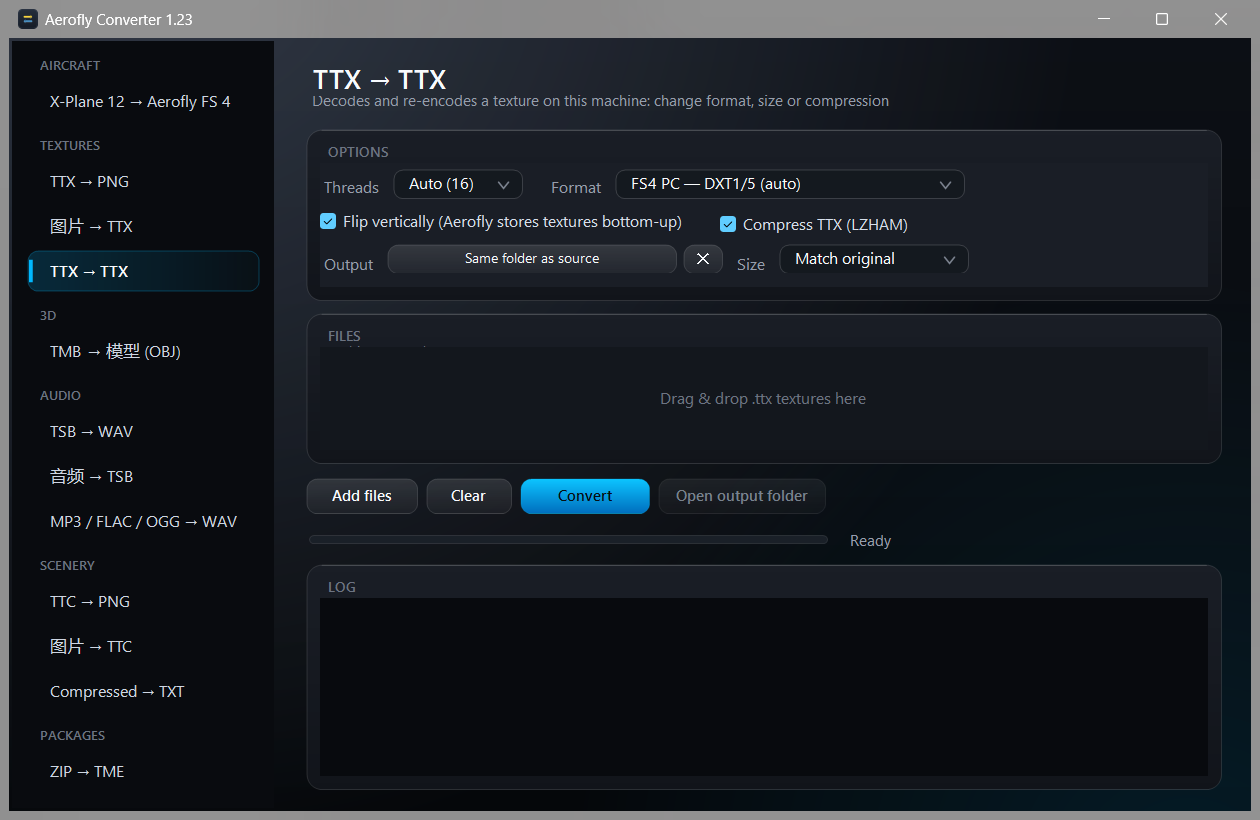
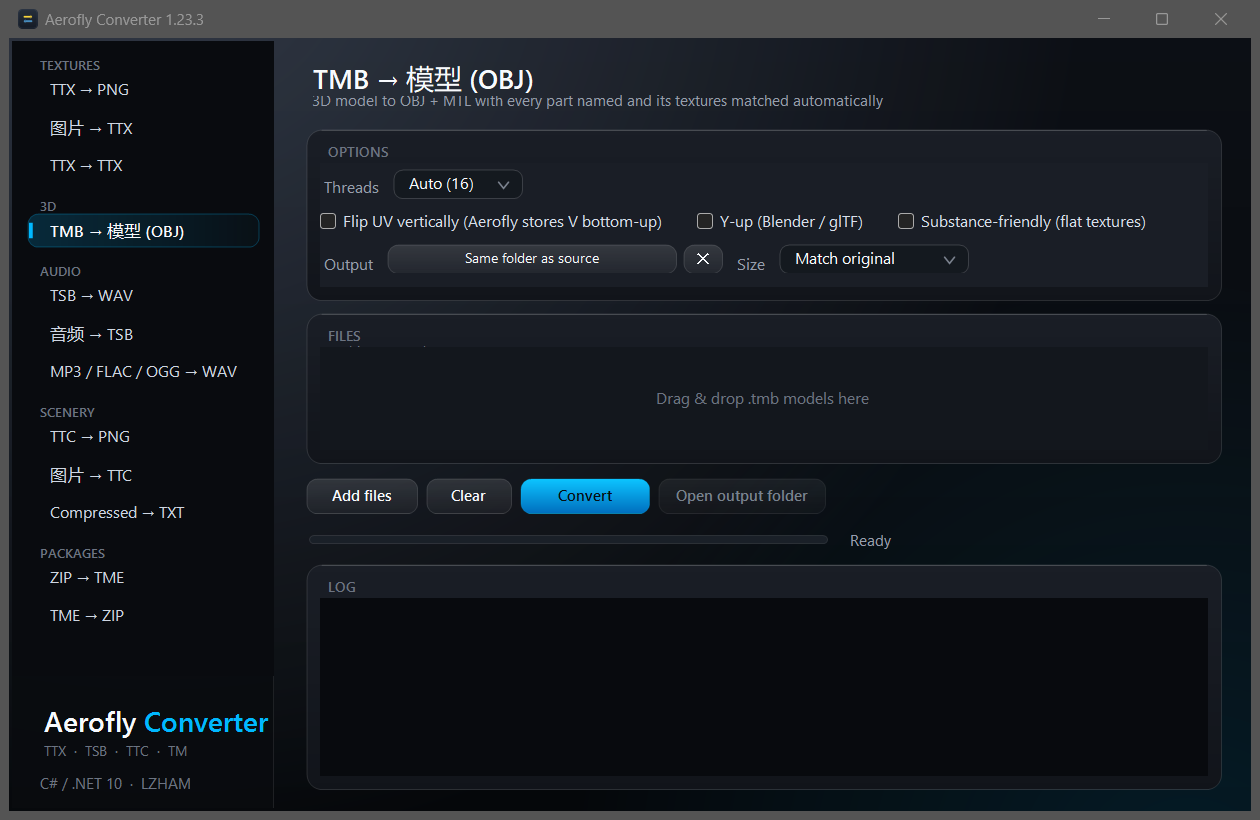
1.23.3: Substance-friendly flat texture export (--sp) + GUI toggle, deterministic livery pick, README SP workflow

Changed region(s): [[0.0, 0.0, 1.0, 1.0], [0.2476, 0.2134, 0.8976, 0.3049], [0.5262, 0.4573, 0.681, 0.5183]]

diff --git a/src/AeroflyConv.Core/Modeling/ObjExporter.cs b/src/AeroflyConv.Core/Modeling/ObjExporter.cs
@@ -23,6 +23,12 @@ public sealed class ObjExportOptions
     public string? SearchRoot;
     /// <summary>Force a livery sub folder instead of picking the best covering one.</summary>
     public string? LiveryFolder;
+    /// <summary>
+    /// Write the PNGs next to the OBJ (no sub folder) and name them
+    /// <c>&lt;material&gt;_basecolor.png</c>, <c>_normal.png</c> … so Substance Painter and
+    /// other texturing tools can match them to a texture set by name.
+    /// </summary>
+    public bool SubstanceMode;
     public Action<string>? Log;
 }
 
@@ -48,7 +54,9 @@ public static class ObjExporter
         string searchRoot = options.SearchRoot ?? directory;
         string baseName = Path.GetFileNameWithoutExtension(objPath);
         string mtlPath = Path.Combine(directory, baseName + ".mtl");
-        string textureFolder = Path.Combine(directory, baseName + "_textures");
+        string textureFolder = options.SubstanceMode
+            ? directory
+            : Path.Combine(directory, baseName + "_textures");
 
         // ---- resolve + convert textures -------------------------------------------------
         var textureFiles = new Dictionary<string, string>(StringComparer.OrdinalIgnoreCase);
@@ -79,8 +87,10 @@ public static class ObjExporter
 
         if (options.ExportTextures)
         {
-            foreach (TmbMaterial material in scene.Materials)
+            for (int materialIndex = 0; materialIndex < scene.Materials.Count; materialIndex++)
             {
+                TmbMaterial material = scene.Materials[materialIndex];
+                string materialName = MaterialName(material, materialIndex);
                 foreach (string channel in channels)
                 {
                     TmbTextureRef? texture = material.Texture(channel);
@@ -89,7 +99,12 @@ public static class ObjExporter
                     (string? file, string kind) = ResolveDetailed(lookup, texture.Name, preferred);
                     if (file is null) continue;
                     textureLog.Add(texture.Name + "," + kind + "," + file);
-                    string png = Path.Combine(textureFolder, texture.Name + ".png");
+                    // Substance mode: one flat file per channel, named after the material, so the
+                    // texture set in the texturing tool can be matched by name.
+                    string fileName = options.SubstanceMode
+                        ? materialName + "_" + ChannelSuffix(channel) + ".png"
+                        : texture.Name + ".png";
+                    string png = Path.Combine(textureFolder, fileName);
                     try
                     {
                         Directory.CreateDirectory(textureFolder);
@@ -97,7 +112,9 @@ public static class ObjExporter
                         bool stale = !File.Exists(png) ||
                                      File.GetLastWriteTimeUtc(file) > File.GetLastWriteTimeUtc(png);
                         if (stale) TtxToPng(file, png);
-                        textureFiles[texture.Name] = Path.Combine(Path.GetFileName(textureFolder), texture.Name + ".png");
+                        textureFiles[texture.Name] = options.SubstanceMode
+                            ? fileName
+                            : Path.Combine(Path.GetFileName(textureFolder), fileName);
                         written++;
                     }
                     catch (Exception ex)
@@ -310,6 +327,19 @@ public static class ObjExporter
         if (pos < 0 || pos + 2 >= stride) pos = 0;
         return (pos, normal, uv);
     }
+
+    /// <summary>Aerofly channel name → the suffix texturing tools expect in a texture set.</summary>
+    private static string ChannelSuffix(string channel) => channel switch
+    {
+        "diffuse" => "basecolor",
+        "normal" => "normal",
+        "specular" => "specular",
+        "reflection" => "reflection",
+        "ambient" => "ambient",
+        "light" => "emissive",
+        "alpha" => "opacity",
+        _ => channel,
+    };
 
     private static string MaterialName(TmbMaterial? material, int index)
     {

diff --git a/src/AeroflyConv.Gui/MainForm.cs b/src/AeroflyConv.Gui/MainForm.cs
@@ -18,6 +18,7 @@ internal sealed class MainForm : Form
     private readonly GlassSelect _threadsSelect = new();
     private readonly CheckBox _flipCheck = new();
     private readonly CheckBox _yUpCheck = new();
+    private readonly CheckBox _spCheck = new();
     private readonly GlassSelect _qualitySelect = new();
     private Label? _qualityLabel;
     private readonly CheckBox _mipmapsCheck = new();
@@ -45,6 +46,7 @@ internal sealed class MainForm : Form
     private bool _flipRelevant;
     private bool _mipmapsRelevant;
     private bool _yUpRelevant;
+    private bool _spRelevant;
     private bool _compressRelevant;
 
     private static readonly (string Category, NavEntry[] Items)[] Modes =
@@ -310,8 +312,11 @@ internal sealed class MainForm : Form
         ConfigureCheck(_mipmapsCheck, "TTC mipmaps");
         ConfigureCheck(_compressCheck, "Compress TTX (LZHAM)");
         ConfigureCheck(_yUpCheck, "Y-up (Blender / glTF)");
+        ConfigureCheck(_spCheck, "Substance-friendly (flat textures)");
         _yUpCheck.Margin = new Padding(0, 0, 26, 0);
         _yUpCheck.Visible = false;
+        _spCheck.Margin = new Padding(0, 0, 8, 0);
+        _spCheck.Visible = false;
         _mipmapsCheck.Checked = true;
         _compressCheck.Checked = true;
         _flipCheck.Margin = new Padding(0, 0, 26, 0);
@@ -320,6 +325,7 @@ internal sealed class MainForm : Form
         row2.Controls.Add(_mipmapsCheck);
         row2.Controls.Add(_compressCheck);
         row2.Controls.Add(_yUpCheck);
+        row2.Controls.Add(_spCheck);
 
         var row3 = new FlowLayoutPanel
         {
@@ -583,6 +589,9 @@ internal sealed class MainForm : Form
         _yUpRelevant = mode == ConversionMode.TmbToObj;
         _yUpCheck.Visible = _yUpRelevant;
         _yUpCheck.Enabled = _yUpRelevant;
+        _spRelevant = mode == ConversionMode.TmbToObj;
+        _spCheck.Visible = _spRelevant;
+        _spCheck.Enabled = _spRelevant;
         _flipCheck.Enabled = _flipRelevant;
         _flipCheck.Checked = _flipRelevant && mode != ConversionMode.TmbToObj;
         _flipCheck.Text = mode == ConversionMode.TmbToObj
@@ -779,6 +788,7 @@ internal sealed class MainForm : Form
             ModelTextures = true,
             ModelFlipV = _flipCheck.Checked,
             ModelYUp = _yUpCheck.Checked,
+            ModelSubstance = _spCheck.Checked,
             AstcQuality = _qualitySelect.SelectedIndex switch
             {
                 0 => AeroflyConv.Core.Codecs.AstcQuality.Fast,

diff --git a/src/AeroflyConv.Cli/Program.cs b/src/AeroflyConv.Cli/Program.cs
@@ -114,10 +114,14 @@ internal static class Program
                     options.ModelTextures = false;
                     break;
                 case "--livery":
-                options.ModelLivery = RequireArg(args, ref i, arg);
-                break;
-            case "--no-uv-flip":
+                    options.ModelLivery = RequireArg(args, ref i, arg);
+                    break;
+                case "--no-uv-flip":
                     options.ModelFlipV = false;
+                    break;
+                case "--sp":
+                case "--substance":
+                    options.ModelSubstance = true;
                     break;
                 case "--zoom":
                     options.TtcZoom = int.Parse(RequireArg(args, ref i, arg));
@@ -304,6 +308,8 @@ internal static class Program
                   --no-textures       tmb2obj: geometry only, skip texture conversion
                   --no-uv-flip        tmb2obj: keep UVs as stored (for models that look mirrored)
                   --livery <folder>   tmb2obj: use this livery sub folder for textures
+                  --sp, --substance   tmb2obj: flat textures next to the OBJ, named <material>_basecolor.png
+                                      (ready for Substance Painter texture sets)
                   --zoom <n>          TTC header "extra"/zoom (default: from map_N_ name)
                   --no-overwrite      skip files that already exist
                   --info              only print metadata
@@ -315,7 +321,7 @@ internal static class Program
               AeroflyConv livery.png -m png2ttx -f dxt_auto --flip
               AeroflyConv scenery.tmb -m tm2txt
               AeroflyConv a350_1000.tmb -m tmb2obj
-              (tmb2obj extras: --y-up, --no-textures, --no-uv-flip)
+              (tmb2obj extras: --y-up, --no-textures, --no-uv-flip, --livery, --sp)
               AeroflyConv "E:\SteamLibrary\...\aircraft" -d D:\extracted -j 16
             """);
     }

diff --git a/src/AeroflyConv.Core/Conversion/Converter.cs b/src/AeroflyConv.Core/Conversion/Converter.cs
@@ -93,6 +93,9 @@ public sealed class ConvertOptions
     /// <summary>Force one livery sub folder when exporting a model.</summary>
     public string? ModelLivery { get; set; }
 
+    /// <summary>Model export: flat PNGs next to the OBJ, named &lt;material&gt;_basecolor.png (Substance Painter friendly).</summary>
+    public bool ModelSubstance { get; set; }
+
     /// <summary>Set by <see cref="Converter.ConvertAll"/> so folder conversions mirror their layout.</summary>
     public string? MirrorRoot { get; set; }
 
@@ -743,6 +746,7 @@ public static class Converter
             FlipV = options.ModelFlipV,
             YUp = options.ModelYUp,
             LiveryFolder = options.ModelLivery,
+            SubstanceMode = options.ModelSubstance,
             SearchRoot = Path.GetDirectoryName(Path.GetFullPath(input)),
             Log = log,
         };

diff --git a/src/AeroflyConv.Core/ProductInfo.cs b/src/AeroflyConv.Core/ProductInfo.cs
@@ -13,7 +13,7 @@ public static class ProductInfo
     public const string Edition = "Alpha";
 
     /// <summary>Numeric version (also stamped into the assemblies).</summary>
-    public const string Version = "1.23.2";
+    public const string Version = "1.23.3";
 
     /// <summary>"Aerofly 转换器 Alpha" - phone build label.</summary>
     public const string FullName = Name + " " + Edition;
